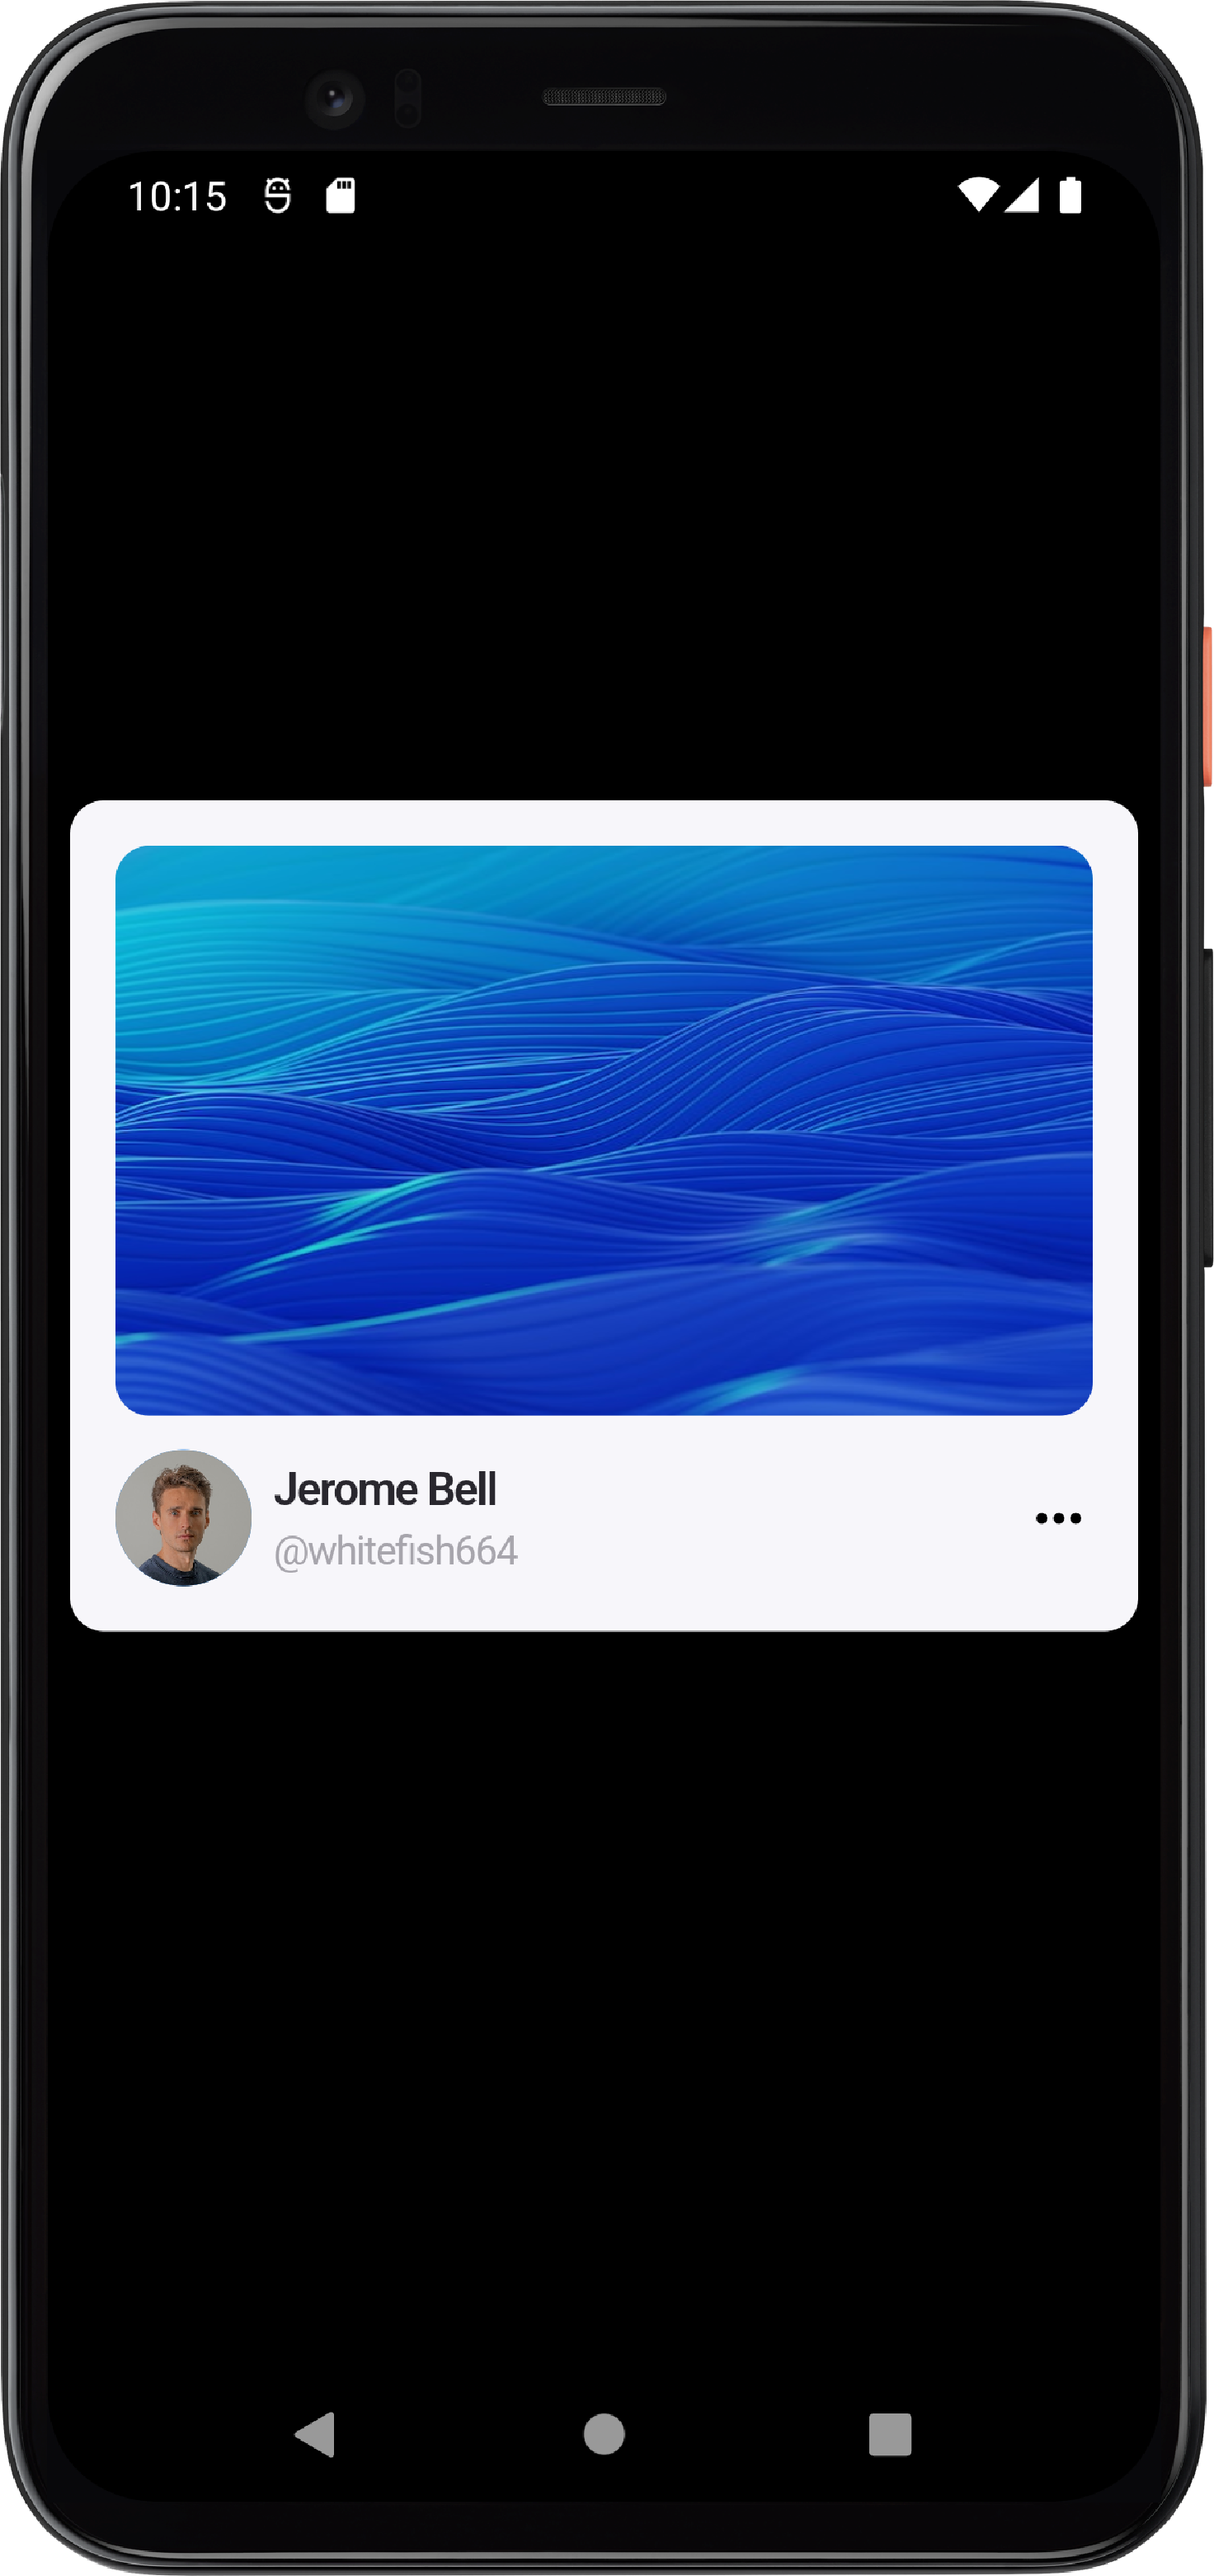
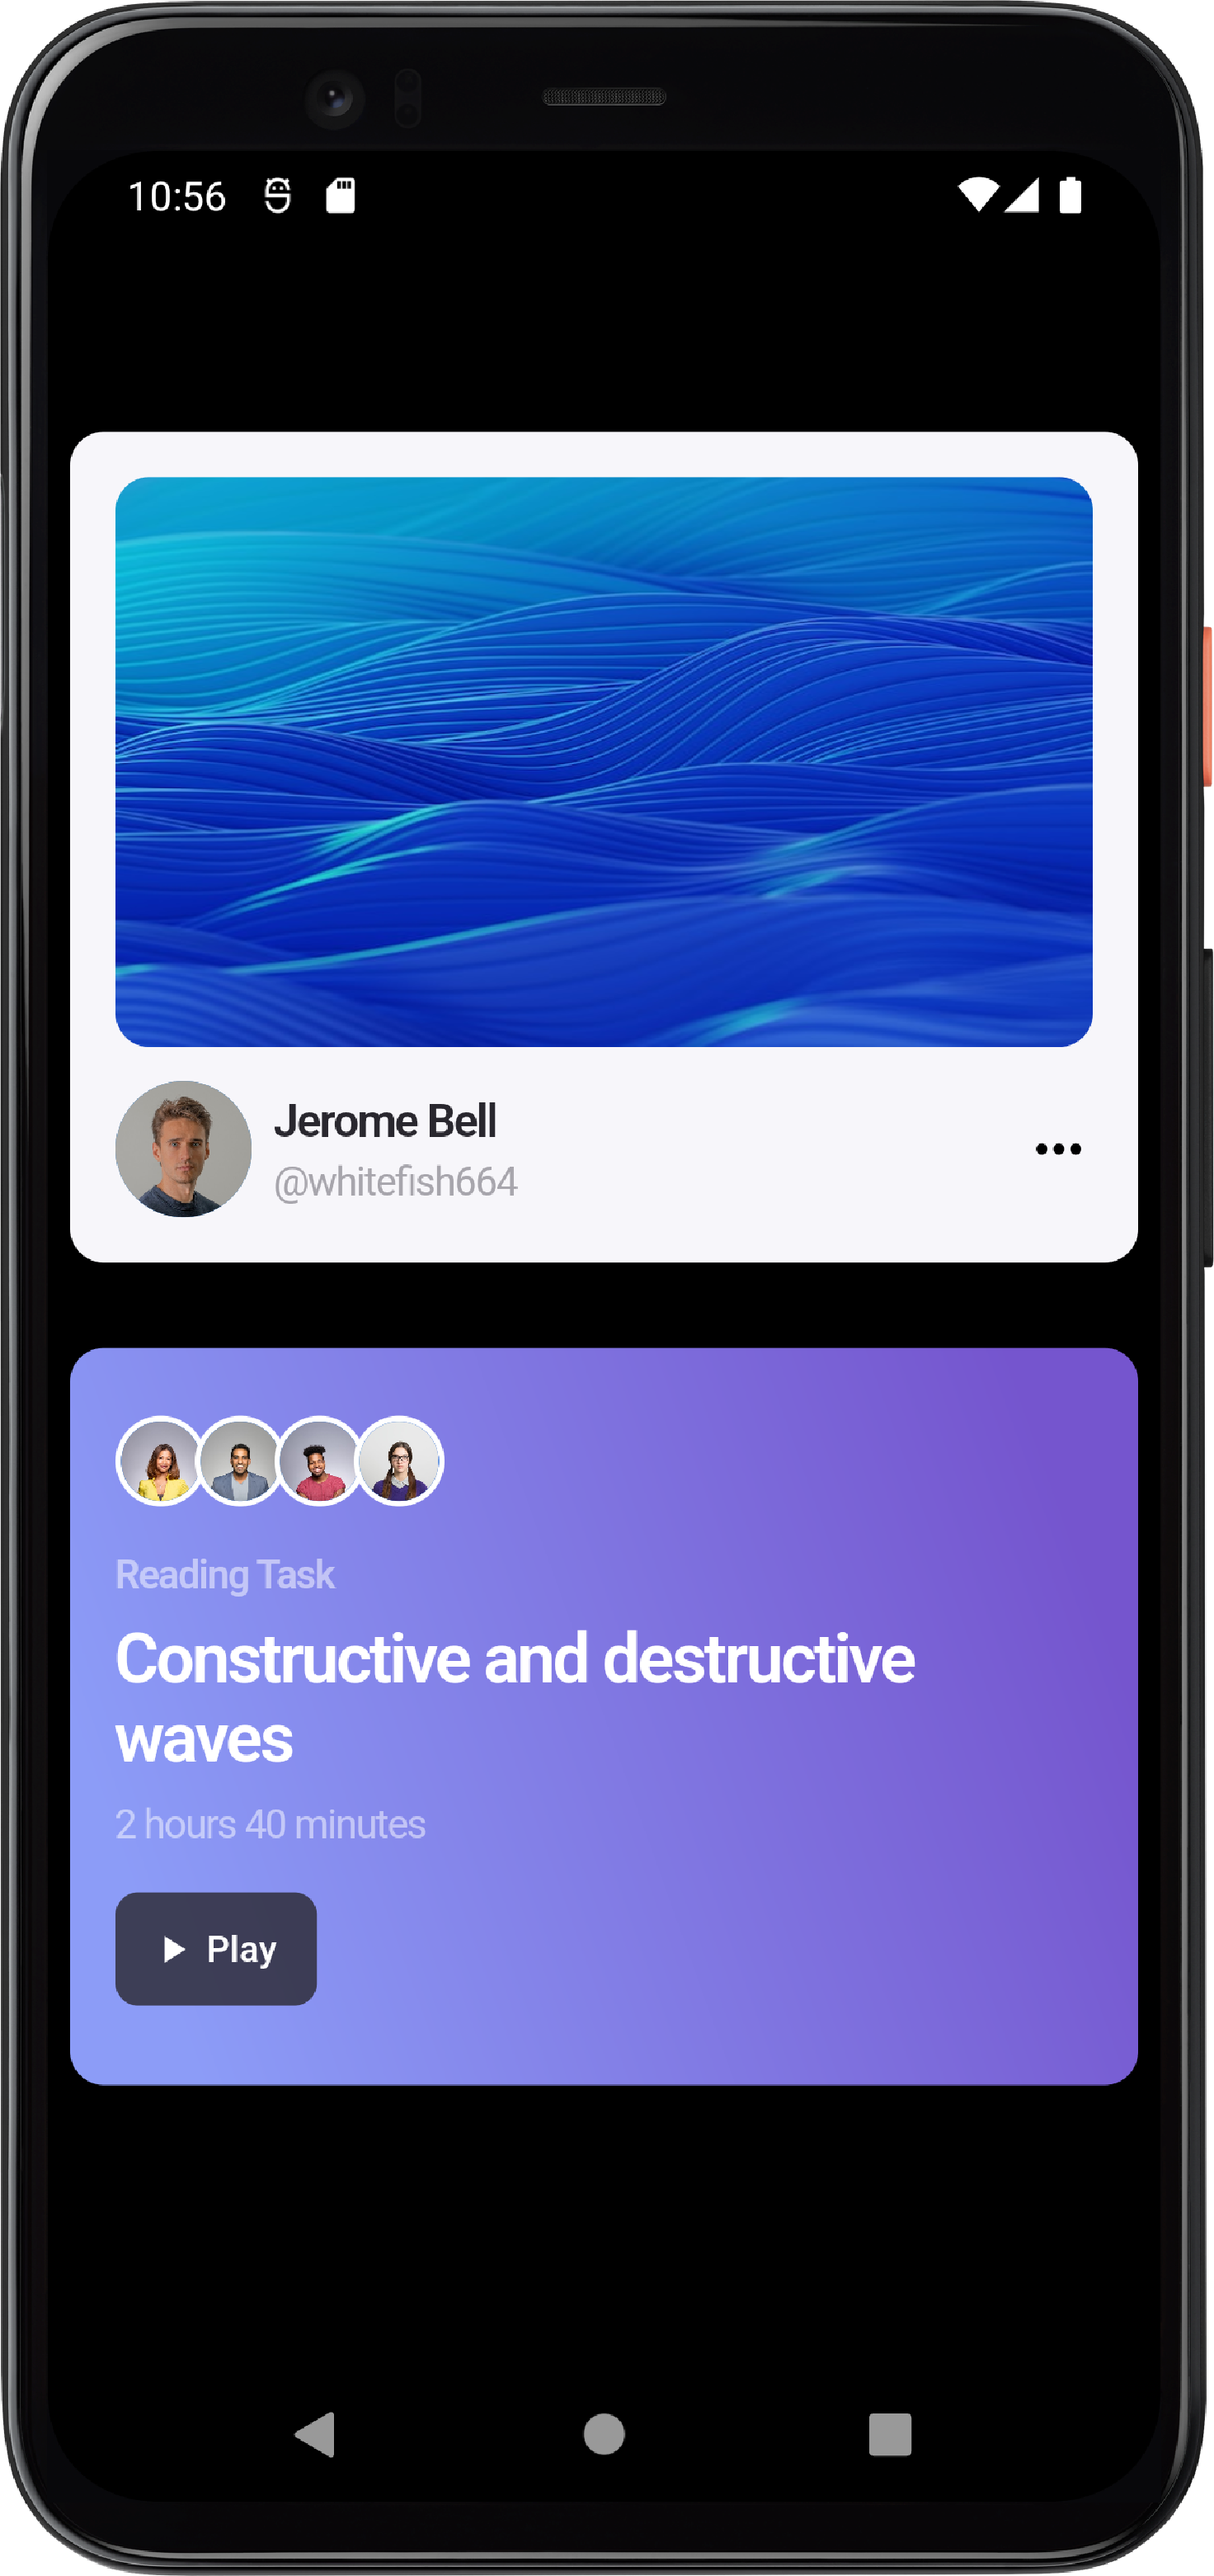
add card 24

diff --git a/lib/Cards/card_24.dart b/lib/Cards/card_24.dart
@@ -1,0 +1,121 @@
+import 'package:flutter/material.dart';
+import 'package:gap/gap.dart';
+class Card24 extends StatelessWidget {
+  const Card24({Key? key}) : super(key: key);
+
+  @override
+  Widget build(BuildContext context) {
+    final items = ["https://s3-alpha-sig.figma.com/img/a93d/910f/39c4a4eac9b5c1d9bf79c3ce707b40e9?Expires=1704067200&Signature=RHbY~WhG0mZVXTvQkaMd6u1JSc6wwoKPZC7uCKmv1N9GoC5SJ3jd6gm6MOOF2BtYr0A4C0puDP9AIuQEKfDFtPPt-wVEK0-2-JQ7VPR8N4VRmPt56kZRCkJCg7TlMO8zFReuk3sUs5uIhZ1wx3fJjE-Ik2o0oIEFMxX~Q22Q9Bgdwda3mhaLpxJVRoY-sytbFjXfz9okc2b4E5ld2x3Iym5i1Cw9MdKA33-H1TqETstPiXBw1Y9yreoVouGl5zs4wdV1WDP0nhS7GPTJvjLuqbEst6zsdgagxz7FzsHq5lKFsp0d49KU6qEBUBZ95Xup~d1GBMBRLw-9YQenqA7Q2g__&Key-Pair-Id=APKAQ4GOSFWCVNEHN3O4",
+      "https://s3-alpha-sig.figma.com/img/9532/ab14/6bf713cc33aba2ea1e125d769575bff1?Expires=1704067200&Signature=j1YXRdZnWkUygDjWklJY3AxL1HzY~V-rYXWH2o1Vhw8TusYtGzfxoAzf8Znaq1wsv2QMQWoSSITBsXEGyzqvPxN6Nx23pg13OxF9-d56E3Bo4~EmC9LPmAQuCAl1rYLsGn1amIglhjpPaBthOoIsEPGeiuePXsOEO~lfamVeeY7WjUQ4HNz7vUMQ~t~gHMe0Uc0zLVGgHNXaifH0jeLWRR0yB2soWuK57FSYybOIrcpSJrgJnSjxPaM7h92hf5cWkXhZ04X9iLXQg40iaYEhp0H7ci~HY0AyTEr9IW1oRTw4OSSMCRfaNfELY76xkQ7jBl3lHVh72d3nMU0DRsgDEQ__&Key-Pair-Id=APKAQ4GOSFWCVNEHN3O4",
+      "https://s3-alpha-sig.figma.com/img/e8db/de05/50b3bfe35aebb0a11dc0ce0fe6b4d7b3?Expires=1704067200&Signature=KAESymSs473loo0U8pudQfE-cAXqQ54RsWQlH95EZdgETb1k-l97v-FO0IZb9YFdkqvaecgxR4fWBENW2pzsE-SAgfiyokQmQpZTUGZBQyTgjL5TXd~Uv7-ReJ-fbW0ao9T3nHt7N41t2YWOyDB8A~0ad8o3fz5cdLKQiwLQ6cWfs-GHwQJucAYpCbKxu-8RgT9IkstSD9w81eg8Aw2LlOqgdkb39vFsA1pr024k31SG79Ei5KHNDImrylcRm8-uJURwPR1GFJfofFboxXYzZioXIRCI321Zo5Id~uqicMZACGiAyQ6RUxJcp7e6imUlNq1bIAe4UNrSZkwQdT7WQA__&Key-Pair-Id=APKAQ4GOSFWCVNEHN3O4",
+      "https://s3-alpha-sig.figma.com/img/d399/27cb/3c34feb52050b33a75e4556cbd74500c?Expires=1704067200&Signature=MVy2I~mElynYKkbCwaldjxO0YH-BJS4I6r~LnfXD9~j8dlItPg8zjOTMKKlVbC8-tM5Ixz~vlnP3gzgFHn8aZorV8DKINT-aHZOlx~uuu2Xct-rH1dvr2ow0qxETZzE0~Vs~sQXCMjWXBPHSmhjXV0Wr~6FPrZS9SF8HV9kLBLtbU7zMotKtciqQGYFfF7dKPRtNjbfQjxMYFIxnnHcQK0C1ouke6bLQoMzRRc2ZT4vu~aV9kBx3OzxHqdD9D2HDKe9HMbjDImER52FbwmihiOcGpN1Qxqm3WqbXXGq0KwlFh1V7Sxd~Q8bAOmjMHvn2p4WfZbdeaNguuNwMwQduig__&Key-Pair-Id=APKAQ4GOSFWCVNEHN3O4"
+    ];
+    final allItems = items.map((e) => CircleAvatar(
+      backgroundImage: NetworkImage(e),
+    )).toList().asMap().map((key, item){
+      const left= 28;
+      final value= Container(
+        margin: EdgeInsets.only(left: (left*key).toDouble()),
+        width: 32,
+        height: 32,
+        decoration: const ShapeDecoration(
+
+          shape: OvalBorder(
+            side: BorderSide(width: 2, color: Colors.white),
+          ),
+
+        ),
+        child: item,
+      );
+      return MapEntry(key, value);
+    }).values.toList();
+    return Container(
+      height: 260,
+      width: double.infinity,
+        padding: const EdgeInsets.symmetric(horizontal: 16, vertical: 24),
+        decoration: ShapeDecoration(
+        gradient: const LinearGradient(
+        begin: Alignment(0.89, -0.46),
+    end: Alignment(-0.89, 0.46),
+    colors: [Color(0xFF7555CE), Color(0xFF8C9CF7)],
+    ),
+    shape: RoundedRectangleBorder(
+    borderRadius: BorderRadius.circular(12),
+    ),
+        ),
+      child: Column(
+        crossAxisAlignment: CrossAxisAlignment.start,
+        children: [
+          Stack(
+            children: allItems,
+          ),
+          const Gap(16),
+          Text(
+            'Reading Task',
+            style: TextStyle(
+              color: Colors.white.withOpacity(0.5),
+              fontSize: 14,
+              fontFamily: 'Inter',
+              fontWeight: FontWeight.w600,
+              height: 0,
+              letterSpacing: -0.56,
+            ),
+          ),
+          const Gap(8),
+          const Text(
+            'Constructive and destructive waves',
+            style: TextStyle(
+              color: Colors.white,
+              fontSize: 24,
+              fontFamily: 'Inter',
+              fontWeight: FontWeight.w600,
+              height: 0,
+              letterSpacing: -0.96,
+            ),
+          ),
+          const Gap(8),
+          Text(
+            '2 hours 40 minutes',
+            style: TextStyle(
+              color: Colors.white.withOpacity(0.5),
+              fontSize: 14,
+              fontFamily: 'Inter',
+              fontWeight: FontWeight.w400,
+              height: 0,
+              letterSpacing: -0.56,
+            ),
+          ),
+          const Gap(16),
+          Container(
+            width: 71,
+            height: 40,
+            padding: const EdgeInsets.all(12),
+            decoration: ShapeDecoration(
+              color: const Color(0xCC29272E),
+              shape: RoundedRectangleBorder(borderRadius: BorderRadius.circular(8)),
+            ),
+            child: const Row(
+              mainAxisSize: MainAxisSize.min,
+              mainAxisAlignment: MainAxisAlignment.start,
+              crossAxisAlignment: CrossAxisAlignment.center,
+              children: [
+                Icon(Icons.play_arrow, color: Colors.white, size: 16,),
+               Gap(4),
+                Text(
+                  'Play',
+                  style: TextStyle(
+                    color: Colors.white,
+                    fontSize: 13,
+                    fontFamily: 'Inter',
+                    fontWeight: FontWeight.w500,
+                    height: 0,
+                  ),
+                ),
+              ],
+            ),
+          )
+        ],
+      ),
+    );
+  }
+}

diff --git a/lib/Screens/view_9.dart b/lib/Screens/view_9.dart
@@ -1,5 +1,6 @@
 import 'package:flutter/material.dart';
 import 'package:flutter_ui_card_collections/Cards/card_23.dart';
+import 'package:flutter_ui_card_collections/Cards/card_24.dart';
 import 'package:gap/gap.dart';
 class View9 extends StatelessWidget {
   const View9({Key? key}) : super(key: key);
@@ -15,7 +16,7 @@ class View9 extends StatelessWidget {
           children: [
             Card23(),
             Gap(30),
-
+            Card24()
 
           ],
         ),
